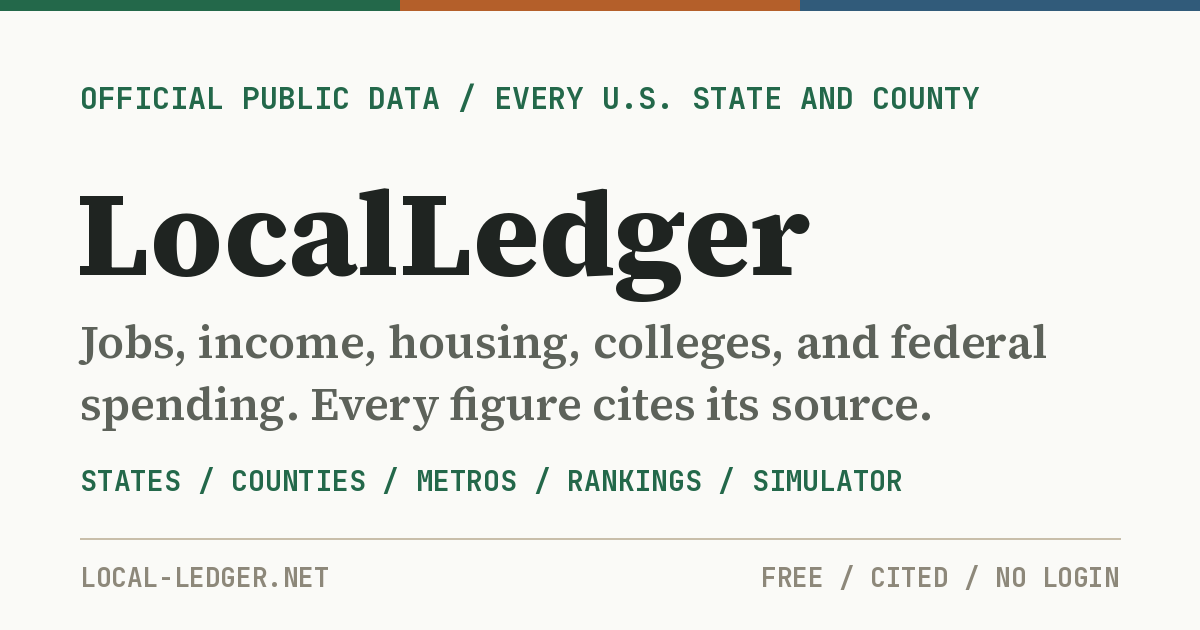
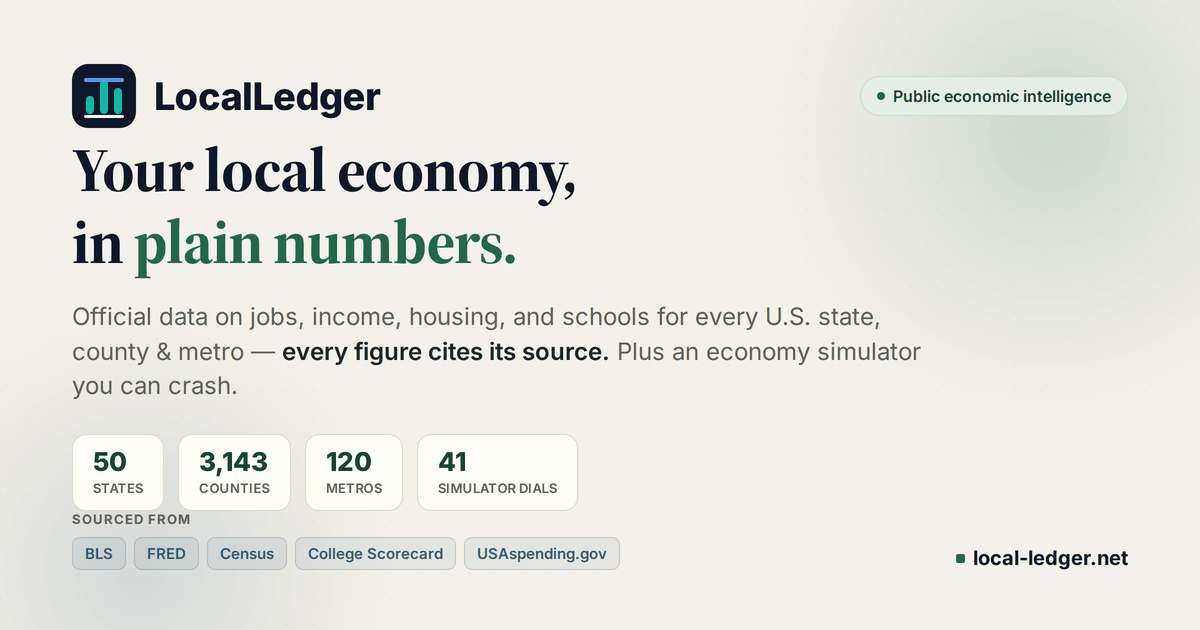
feat(branding): polished LinkedIn/OG social card (1200x630) + GitHub social preview
- Rebuilds og-default.png as a clean 1200x630 card: wordmark, serif headline 'Your local economy, in plain numbers.', stat chips (50 states / 3,143 counties / 120 metros / 41 simulator dials), and source tags (BLS, FRED, Census, College Scorecard, USAspending.gov)
- Adds editable HTML source at branding/og-card.html
- Adds 1280x640 GitHub repository social preview
- Fixes text-overlap defect in previous social image

Changed region(s): [[0.0308, 0.2413, 0.9558, 1.0], [0.0, 0.0, 1.0, 0.4825]]

diff --git a/branding/og-card.html b/branding/og-card.html
@@ -1,0 +1,142 @@
+<!DOCTYPE html>
+<html lang="en">
+<head>
+<meta charset="utf-8">
+<title>LocalLedger OG</title>
+<link href="https://fonts.googleapis.com/css2?family=Inter:wght@400;500;600;700;800&family=Source+Serif+4:opsz,wght@8..60,400;8..60,600;8..60,700&display=swap" rel="stylesheet">
+<style>
+  * { margin:0; padding:0; box-sizing:border-box; }
+  html,body { width:1200px; height:630px; overflow:hidden; }
+  body {
+    font-family:'Inter',system-ui,sans-serif;
+    background:#F4F1EA;
+    color:#1F2421;
+    position:relative;
+  }
+  /* subtle grid texture */
+  .bg-grid {
+    position:absolute; inset:0;
+    background-image:
+      radial-gradient(circle at 1px 1px, rgba(31,36,33,0.05) 1px, transparent 0);
+    background-size: 26px 26px;
+    opacity:0.6;
+  }
+  .glow {
+    position:absolute; top:-180px; right:-160px; width:620px; height:620px;
+    background:radial-gradient(circle, rgba(35,104,74,0.18), rgba(35,104,74,0) 65%);
+    border-radius:50%;
+  }
+  .glow2 {
+    position:absolute; bottom:-220px; left:-140px; width:560px; height:560px;
+    background:radial-gradient(circle, rgba(49,91,122,0.16), rgba(49,91,122,0) 65%);
+    border-radius:50%;
+  }
+  .card {
+    position:relative; z-index:2;
+    width:1200px; height:630px;
+    padding:64px 72px;
+    display:flex; flex-direction:column; justify-content:space-between;
+  }
+  .top { display:flex; align-items:center; justify-content:space-between; }
+  .brand { display:flex; align-items:center; gap:18px; }
+  .mark {
+    width:64px; height:64px; border-radius:16px; background:#0F172A;
+    display:flex; align-items:flex-end; justify-content:center; gap:6px;
+    padding:14px 12px; position:relative;
+  }
+  .bar { width:8px; border-radius:4px; background:#14B8A6; }
+  .b1 { height:18px; }
+  .b2 { height:34px; background:#14B8A6; }
+  .b3 { height:26px; }
+  .mark .cap { position:absolute; top:14px; left:12px; right:12px; height:4px; border-radius:3px; background:#60A5FA; opacity:0.9; }
+  .mark .base { position:absolute; bottom:10px; left:12px; right:12px; height:3px; border-radius:2px; background:#F8FAFC; }
+  .word { font-weight:800; font-size:38px; letter-spacing:-0.5px; color:#0F172A; }
+  .pill {
+    display:flex; align-items:center; gap:8px;
+    font-size:16px; font-weight:600; color:#164531;
+    background:#E4EEE6; border:1px solid #C8DCCB;
+    padding:9px 16px; border-radius:999px;
+  }
+  .dot { width:8px; height:8px; border-radius:50%; background:#23684A; }
+
+  .mid { margin-top:6px; }
+  .headline {
+    font-family:'Source Serif 4', Georgia, serif;
+    font-weight:700; font-size:62px; line-height:1.16;
+    color:#0F172A; letter-spacing:-1.2px; max-width:980px;
+  }
+  .headline .em { color:#23684A; }
+  .headline .ember { color:#B45F2A; }
+  .sub {
+    margin-top:22px; font-size:24px; line-height:1.45;
+    color:#5D625A; font-weight:400; max-width:880px;
+  }
+  .sub b { color:#1F2421; font-weight:600; }
+
+  .stats { display:flex; gap:14px; margin-top:30px; }
+  .stat {
+    background:#FFFDF7; border:1px solid #DED7C8; border-radius:14px;
+    padding:14px 20px; display:flex; flex-direction:column;
+  }
+  .stat .n { font-size:26px; font-weight:800; color:#164531; line-height:1; }
+  .stat .l { font-size:13px; font-weight:600; color:#5D625A; margin-top:5px; letter-spacing:0.2px; text-transform:uppercase; }
+
+  .bottom { display:flex; align-items:flex-end; justify-content:space-between; }
+  .sources { display:flex; flex-direction:column; gap:10px; }
+  .src-label { font-size:13px; font-weight:700; color:#5D625A; text-transform:uppercase; letter-spacing:1px; }
+  .srcs { display:flex; gap:8px; flex-wrap:wrap; }
+  .src { font-size:15px; font-weight:600; color:#315B7A; background:rgba(49,91,122,0.08); border:1px solid rgba(49,91,122,0.2); padding:6px 12px; border-radius:8px; }
+  .url {
+    font-size:20px; font-weight:700; color:#0F172A;
+    display:flex; align-items:center; gap:8px;
+  }
+  .url .sq { width:9px; height:9px; background:#23684A; border-radius:2px; }
+</style>
+</head>
+<body>
+  <div class="bg-grid"></div>
+  <div class="glow"></div>
+  <div class="glow2"></div>
+  <div class="card">
+    <div class="top">
+      <div class="brand">
+        <div class="mark">
+          <div class="cap"></div>
+          <div class="bar b1"></div>
+          <div class="bar b2"></div>
+          <div class="bar b3"></div>
+          <div class="base"></div>
+        </div>
+        <div class="word">LocalLedger</div>
+      </div>
+      <div class="pill"><span class="dot"></span> Public economic intelligence</div>
+    </div>
+
+    <div class="mid">
+      <div class="headline">Your local economy,<br>in <span class="em">plain numbers.</span></div>
+      <div class="sub">Official data on jobs, income, housing, and schools for every U.S. state, county &amp; metro — <b>every figure cites its source.</b> Plus an economy simulator you can crash.</div>
+
+      <div class="stats">
+        <div class="stat"><div class="n">50</div><div class="l">States</div></div>
+        <div class="stat"><div class="n">3,143</div><div class="l">Counties</div></div>
+        <div class="stat"><div class="n">120</div><div class="l">Metros</div></div>
+        <div class="stat"><div class="n">41</div><div class="l">Simulator dials</div></div>
+      </div>
+    </div>
+
+    <div class="bottom">
+      <div class="sources">
+        <div class="src-label">Sourced from</div>
+        <div class="srcs">
+          <span class="src">BLS</span>
+          <span class="src">FRED</span>
+          <span class="src">Census</span>
+          <span class="src">College Scorecard</span>
+          <span class="src">USAspending.gov</span>
+        </div>
+      </div>
+      <div class="url"><span class="sq"></span> local-ledger.net</div>
+    </div>
+  </div>
+</body>
+</html>
